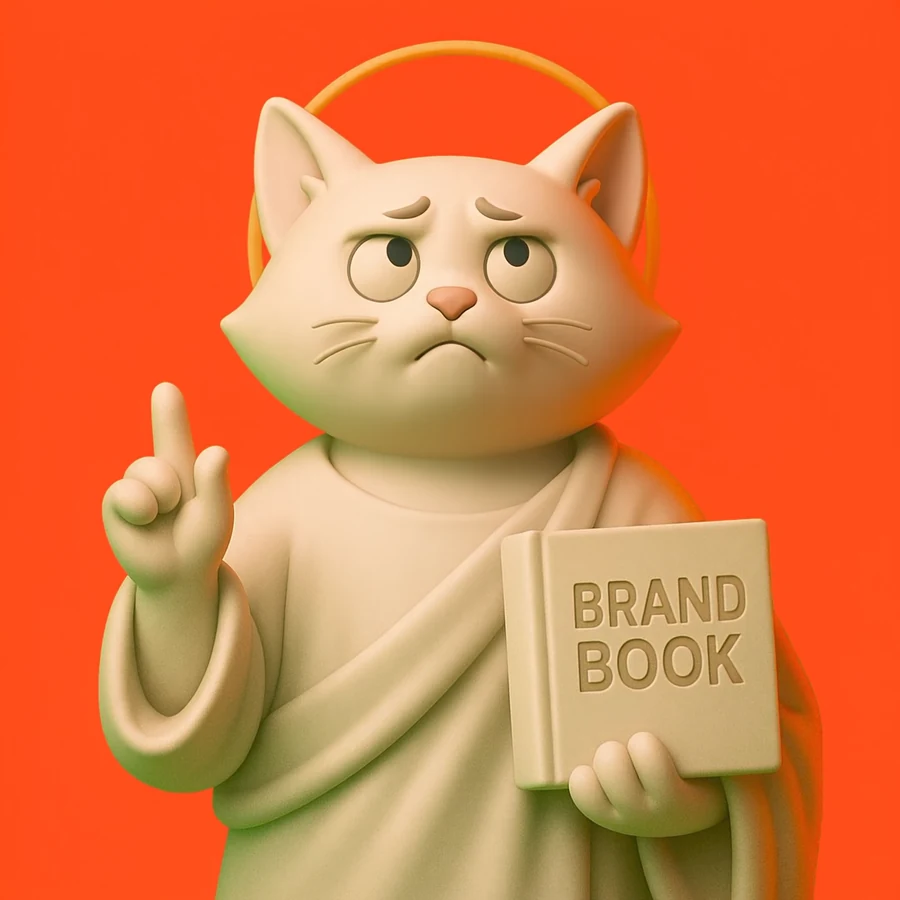
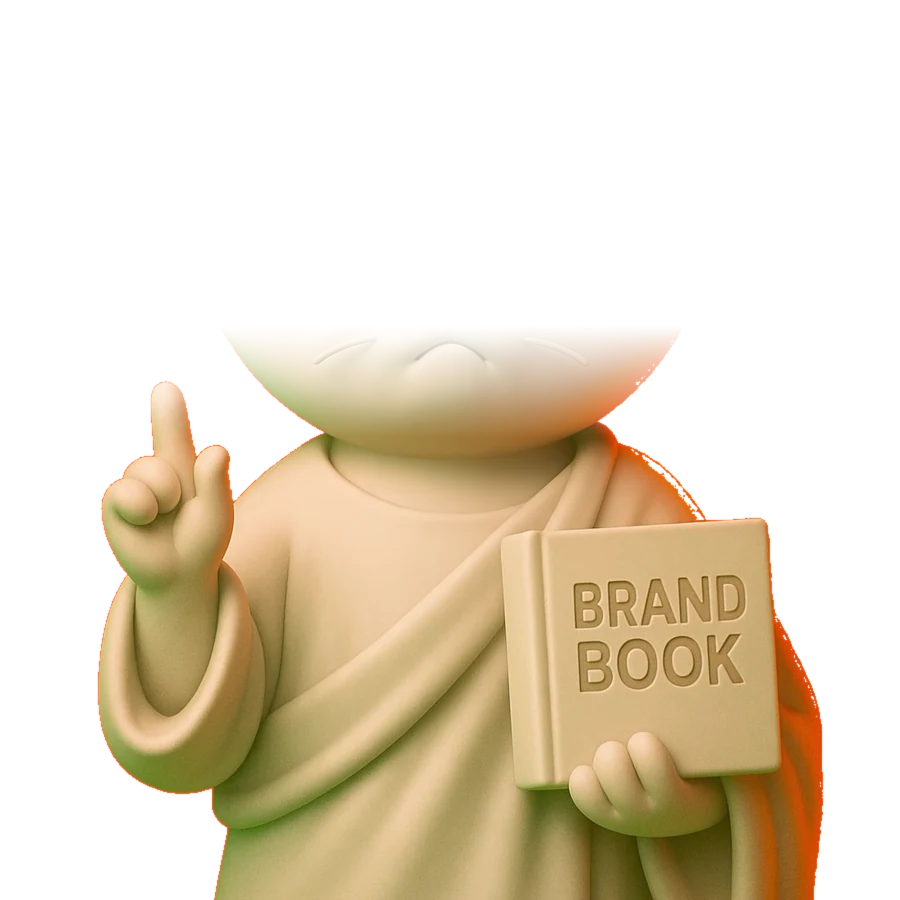
L2 landing, hero: кіт на прозорому тлі — текст знову видно
Фон вирізано заливкою від країв плюс точковим тестом кольору, тому
кишені всередині німба теж прозорі, а сам німб і підсвітка лишились.
З основи вирізано голову рівно на ту частку, яку домальовує спрайт,
тож двох голів не буває.

diff --git a/landings/l2-brendbuk-editorial/index.html b/landings/l2-brendbuk-editorial/index.html
@@ -19,10 +19,10 @@
 <!-- Шрифти: локальні woff2 (≈23 КБ кожен), font-display:swap — див. css/tokens.css.
      Preload навмисно не використовуємо: CSS блокує рендер і так, а подвійне
      завантаження файлу коштувало б дорожче за виграш. -->
-<link rel="stylesheet" href="css/tokens.css?v=97">
-<link rel="stylesheet" href="css/base.css?v=97">
-<link rel="stylesheet" href="css/components.css?v=97">
-<link rel="stylesheet" href="css/sections.css?v=97">
+<link rel="stylesheet" href="css/tokens.css?v=98">
+<link rel="stylesheet" href="css/base.css?v=98">
+<link rel="stylesheet" href="css/components.css?v=98">
+<link rel="stylesheet" href="css/sections.css?v=98">
 <script>document.documentElement.classList.remove('no-js');</script>
 
 <script type="application/ld+json">
@@ -1067,6 +1067,6 @@
   </div>
 </footer>
 
-<script src="js/main.js?v=97" defer></script>
+<script src="js/main.js?v=98" defer></script>
 </body>
 </html>
